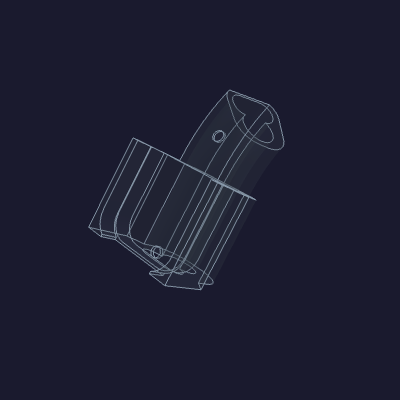
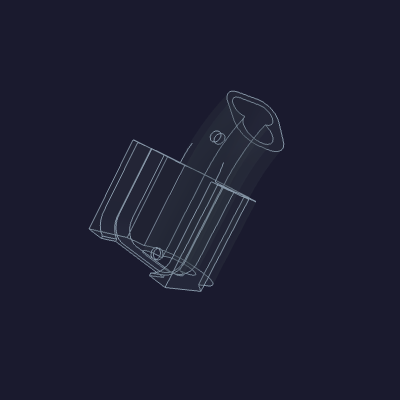
touch-flo-shell: stop cutting the plug — the joint's fit is the slide clearance
The slide-clearance annulus shaved the plug web for a collision that
does not exist: the bend piece's walls and pads sit laterally outside
the plug, and its material at the plug's width stays outside the
socket surface — the socket/plug fit is the slide clearance, as in a
plain joint. The annulus is gone; the plug keeps its full tube wall,
and where it rises past the floor plane the cavity shaves it flush,
making the plug's top the pocket floor through the joint's overlap.
The bend piece carries no floor there: the sliver of its wall that
rose past the socket surface toward the floor plane under the display
is cleared (outside the socket surface, inside the pocket footprint —
flanks, skin, and head wall untouched).

diff --git a/hardware/scripts/pick_text.py b/hardware/scripts/pick_text.py
@@ -1,0 +1,228 @@
+"""Pick-text composer — the CAD side of the step viewer's pick channel.
+
+The viewer's edge picker copies geometry as pick text (file / solid /
+edge / faceA / faceB / click lines), and its Find box accepts the same
+format pasted back: it opens the file a `file:` line names, highlights
+every recognizable pick, and frames the camera on them. This module
+composes those lines from CadQuery geometry, so an agent pointing a
+person at an edge or face emits text the person pastes straight into
+the Find box.
+
+Format truth lives in web/public/js/viewer/pick-format.js (the
+viewer's parser + matcher); web/tests/pick-format.test.js round-trips
+this module's demo output through that parser.
+
+Compose from geometry:
+
+    import sys
+    from pathlib import Path
+    sys.path.insert(
+        0,
+        str(next(p for p in Path(__file__).resolve().parents if p.name == "hardware") / "scripts"),
+    )
+    from pick_text import from_edge, from_face, file_line, click
+
+    print(file_line(step_path))                      # which STEP to open
+    print(from_edge(solid.edges(">Z").vals()[0]))    # edge: …
+    print(from_face(solid.faces(">Z").vals()[0]))    # face: …
+    print(click(cq.Vector(1, 2, 3)))                 # click: … (point marker)
+
+Or from raw numbers via straight() / arc_line() / circle_line() /
+plane_face() / cylinder_face(). Demo (also the round-trip test
+fixture):
+
+    tools/cad-venv/bin/python hardware/scripts/pick_text.py
+"""
+
+from pathlib import Path
+
+
+# --- number / point formatting (mirrors pick-format.js fnum/fpt) ---
+
+def fnum(v: float) -> str:
+    s = f"{v:.3f}"
+    return "0.000" if s == "-0.000" else s
+
+
+def fpt(p) -> str:
+    """Format a point/vector with .x/.y/.z (cq.Vector qualifies)."""
+    return f"x={fnum(p.x)} y={fnum(p.y)} z={fnum(p.z)}"
+
+
+# --- raw-number composers ---
+
+def straight(a, b, label: str = "edge") -> str:
+    d = _normalized(_sub(b, a))
+    return (
+        f"{label}: {fpt(a)} → {fpt(b)} · len {_dist(a, b):.3f}"
+        f" · straight · dir {fpt(d)}"
+    )
+
+
+def arc_line(a, b, center, axis, r: float, length: float, label: str = "edge") -> str:
+    return (
+        f"{label}: {fpt(a)} → {fpt(b)} · len {length:.3f}"
+        f" · arc r={r:.3f} · center {fpt(center)} · axis {fpt(axis)}"
+    )
+
+
+def circle_line(center, d: float, axis, circumference: float, label: str = "edge") -> str:
+    return (
+        f"{label}: circle ⌀{d:.3f} · center {fpt(center)}"
+        f" · circumference {circumference:.3f} · axis {fpt(axis)}"
+    )
+
+
+def plane_face(n, thru, label: str = "face") -> str:
+    return f"{label}: plane · n {fpt(n)} · thru {fpt(thru)}"
+
+
+def cylinder_face(r: float, axis_point, direction, label: str = "face") -> str:
+    return f"{label}: cylinder · r={r:.3f} · axis {fpt(axis_point)} · dir {fpt(direction)}"
+
+
+def curved_face(near, label: str = "face") -> str:
+    return f"{label}: curved · near {fpt(near)}"
+
+
+def click(p) -> str:
+    return f"click: {fpt(p)}"
+
+
+def solid_line(name: str) -> str:
+    return f"solid: {name}"
+
+
+def file_line(step_path) -> str:
+    """Repo-root-relative file line — the Find box opens this file before
+    matching, so paths must carry the repo prefix the viewer's copy blobs
+    use (hardware/…)."""
+    p = Path(step_path).resolve()
+    for parent in p.parents:
+        if (parent / ".git").exists():
+            return f"file: {p.relative_to(parent)}"
+    return f"file: {step_path}"
+
+
+# --- CadQuery composers ---
+# Classify through OCP's BRepAdaptor so the line carries the same
+# parameters the viewer reconstructs from the mesh.
+
+def from_edge(edge, label: str = "edge") -> str:
+    """Pick line for a cq.Edge: straight, arc, full circle, or curve."""
+    from OCP.BRepAdaptor import BRepAdaptor_Curve
+    from OCP.GeomAbs import GeomAbs_Line, GeomAbs_Circle
+
+    a, b = edge.startPoint(), edge.endPoint()
+    length = edge.Length()
+    curve = BRepAdaptor_Curve(edge.wrapped)
+    kind = curve.GetType()
+
+    if kind == GeomAbs_Line:
+        return straight(a, b, label)
+    if kind == GeomAbs_Circle:
+        circ = curve.Circle()
+        loc, axd = circ.Location(), circ.Axis().Direction()
+        center = _vec(loc.X(), loc.Y(), loc.Z())
+        axis = _vec(axd.X(), axd.Y(), axd.Z())
+        r = circ.Radius()
+        if _dist(a, b) < 1e-6:  # closed — a full circle
+            return circle_line(center, 2.0 * r, axis, length, label)
+        return arc_line(a, b, center, axis, r, length, label)
+    return f"{label}: {fpt(a)} → {fpt(b)} · len {length:.3f} · curve"
+
+
+def from_face(face, label: str = "face") -> str:
+    """Pick line for a cq.Face: plane, cylinder, or curved-with-a-point."""
+    from OCP.BRepAdaptor import BRepAdaptor_Surface
+    from OCP.GeomAbs import GeomAbs_Plane, GeomAbs_Cylinder
+
+    center = face.Center()
+    surf = BRepAdaptor_Surface(face.wrapped)
+    kind = surf.GetType()
+
+    if kind == GeomAbs_Plane:
+        return plane_face(face.normalAt(center), center, label)
+    if kind == GeomAbs_Cylinder:
+        cyl = surf.Cylinder()
+        loc, axd = cyl.Position().Location(), cyl.Position().Direction()
+        return cylinder_face(
+            cyl.Radius(),
+            _vec(loc.X(), loc.Y(), loc.Z()),
+            _vec(axd.X(), axd.Y(), axd.Z()),
+            label,
+        )
+    return curved_face(center, label)
+
+
+# --- small vector helpers (work on anything with .x/.y/.z) ---
+
+def _vec(x, y, z):
+    class _V:
+        __slots__ = ("x", "y", "z")
+
+        def __init__(self):
+            self.x, self.y, self.z = x, y, z
+
+    return _V()
+
+
+def _sub(a, b):
+    return _vec(a.x - b.x, a.y - b.y, a.z - b.z)
+
+
+def _dist(a, b) -> float:
+    d = _sub(a, b)
+    return (d.x * d.x + d.y * d.y + d.z * d.z) ** 0.5
+
+
+def _normalized(v):
+    n = (v.x * v.x + v.y * v.y + v.z * v.z) ** 0.5 or 1.0
+    return _vec(v.x / n, v.y / n, v.z / n)
+
+
+# --- demo: one line of each kind off a small solid ---
+# Doubles as the round-trip fixture: web/tests/pick-format.test.js runs
+# this and feeds the output through the viewer's parser.
+
+def _demo() -> str:
+    import cadquery as cq
+
+    solid = (
+        cq.Workplane("XY")
+        .box(20, 10, 4)
+        .edges("|Z and >X and >Y")
+        .fillet(3)
+        .faces(">Z")
+        .workplane()
+        .hole(4)
+    )
+    lines = []
+
+    kinds_wanted = {"straight", "arc", "circle"}
+    for e in solid.val().Edges():
+        line = from_edge(e)
+        kind = "circle" if "circle" in line else ("arc" if " arc " in line else ("straight" if "straight" in line else "curve"))
+        if kind in kinds_wanted:
+            kinds_wanted.discard(kind)
+            lines.append(line)
+        if not kinds_wanted:
+            break
+
+    face_labels = iter(["faceA", "faceB"])
+    face_kinds_wanted = {"plane", "cylinder"}
+    for f in solid.val().Faces():
+        kind_line = from_face(f)
+        kind = "plane" if "plane" in kind_line else ("cylinder" if "cylinder" in kind_line else "curved")
+        if kind in face_kinds_wanted:
+            face_kinds_wanted.discard(kind)
+            lines.append(from_face(f, label=next(face_labels)))
+        if not face_kinds_wanted:
+            break
+
+    lines.append(click(_vec(1.0, -2.5, 3.75)))
+    return "\n".join(lines)
+
+
+if __name__ == "__main__":
+    print(_demo())

diff --git a/hardware/printed-parts/faucet/touch-flo-shell/touch_flo_shell.py b/hardware/printed-parts/faucet/touch-flo-shell/touch_flo_shell.py
@@ -1118,10 +1118,13 @@ def _build_bend_overlap(sketch: cq.Sketch, *, side: str) -> cq.Workplane:
 # the pocket's straight-zone portion and the plug; the bend piece
 # carries everything beyond the junction — the cradle walls, their
 # below-floor flank pads, and the head wall closing the cradle's top
-# end — and presses the display in as the arc-slide joint closes. The
-# plug vacates everything radially outside the cradle's swept approach
-# path (its lowest sweep is the wall bottom at the junction, radius
-# gn_bend2_r + display_floor_n about the bend axis).
+# end — and presses the display in as the arc-slide joint closes.
+# Through the joint's overlap the pocket floor is the tip piece's tube
+# wall (the plug's top, shaved flush by the cavity); the bend piece
+# carries no floor there. The cradle never collides with the plug
+# during the slide: the walls and pads sit laterally outside it, and
+# the bend piece's material at the plug's width stays outside the
+# socket surface — the joint's own fit is the slide clearance.
 #
 # Retention: nothing overhangs the display face — the walls and head
 # wall all stop just over the face plane. Axially the device's rounded
@@ -1401,16 +1404,20 @@ def _display_head_wall() -> cq.Workplane:
     )
 
 
-def _cradle_slide_clearance() -> cq.Workplane:
-    """The bend piece's cradle — walls, flank pads, head wall — rides the
-    SPLIT B arc into place; its lowest sweep is the wall bottom at the
-    junction (radius gn_bend2_r + display_floor_n about the bend axis).
-    Beyond the junction the plug keeps nothing radially outside that
-    sweep, so the slide closes without collision. The hollow this leaves
-    is the same class as the socket's insertion lead."""
+def _middle_floor_clearance() -> cq.Workplane:
+    """The bend piece carries no floor through the joint's overlap — the
+    pocket floor there is the tip piece's tube wall. This clears the
+    sliver of bend-piece wall that rises past the socket surface toward
+    the floor plane under the display. Bounded outside the socket
+    surface and inside the pocket footprint, so the piece's flanks,
+    skin, and head wall are untouched."""
     center_y = water_tube_y - _path_center_bend2[0]
     center_z = zone5_z_top + _path_center_bend2[1]
-    inner_r = gn_bend2_r + display_floor_n - 0.3
+    socket_r = (
+        gn_bend2_r
+        + flavor_offset_y_from_water + pill_width_y / 2.0 + zone5_wall
+        - split_b_socket_shrink
+    )
     annulus = (
         cq.Workplane(cq.Plane(
             origin=cq.Vector(-40.0, center_y, center_z),
@@ -1418,13 +1425,14 @@ def _cradle_slide_clearance() -> cq.Workplane:
             normal=cq.Vector(1, 0, 0),
         ))
         .circle(120.0)
-        .circle(inner_r)
+        .circle(socket_r - 0.05)
         .extrude(80.0)
     )
-    beyond_junction = _cradle_prism(
-        60.0, gn_tip_straight_len, display_s_top + 60.0, -80.0, 120.0,
+    under_display = _cradle_prism(
+        _pcb_band_half_x, gn_tip_straight_len, display_s_top,
+        3.0, display_floor_n,
     )
-    return annulus.intersect(beyond_junction)
+    return annulus.intersect(under_display)
 
 
 def _web_drop_hole(s_pos: float, dia: float) -> cq.Workplane:
@@ -1590,39 +1598,34 @@ def build_shell_middle(full_shell: cq.Workplane | None = None) -> cq.Workplane:
         .cut(tip_section)
         .cut(bend_socket_cavity)
         .cut(_cradle_block_tip_owned())
-        .cut(_display_wire_hole())
+        .cut(_middle_floor_clearance())
     )
 
 
 def build_shell_top(full_shell: cq.Workplane | None = None) -> cq.Workplane:
     """Dispense-tip piece — male plug for the SPLIT B (bend↔tip) joint,
     carrying the cradle's straight-zone portion: pocket, PCB cover, and
-    walls up to the junction plane. The plug keeps nothing radially
-    outside the bend piece's cradle sweep — a partial-ring joint
-    engaging the water side and flanks."""
+    walls up to the junction plane. The plug keeps its full tube wall;
+    where it rises past the floor plane the cavity shaves it flush — its
+    top is the pocket floor through the joint's overlap."""
     _ = full_shell
     tip_outer = _build_tip_section(_tube_shell_outer_sketch())
     tip_inner = _build_tip_section(_tube_shell_inner_sketch())
-    tip = (
-        tip_outer
-        .union(_cradle_block_tip_owned())
-        .cut(tip_inner)
-        .cut(_display_cavity())
-        .cut(_display_drain_hole())
-    )
-
     plug_outer = _build_bend_overlap(
         _tube_shell_outer_shrunk_sketch(split_b_plug_shrink), side="plug",
     )
     plug_inner = _build_bend_overlap(_tube_shell_inner_sketch(), side="plug")
-    plug = (
-        plug_outer
-        .cut(plug_inner)
-        .cut(_cradle_slide_clearance())
+    plug = plug_outer.cut(plug_inner)
+
+    return (
+        tip_outer
+        .union(_cradle_block_tip_owned())
+        .union(plug)
+        .cut(tip_inner)
+        .cut(_display_cavity())
+        .cut(_display_drain_hole())
         .cut(_display_wire_hole())
     )
-
-    return tip.union(plug)
 
 
 def main():
